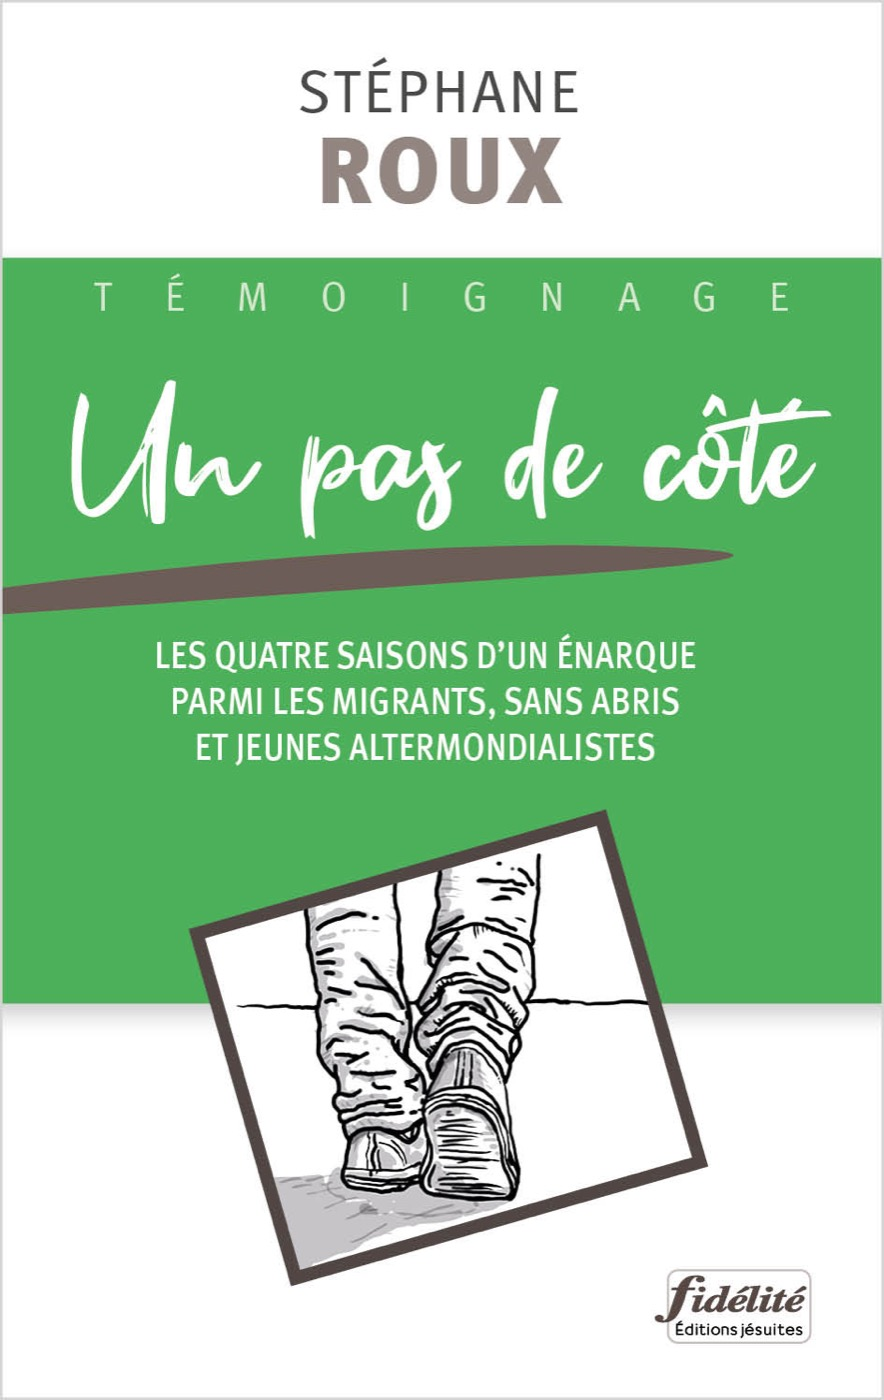
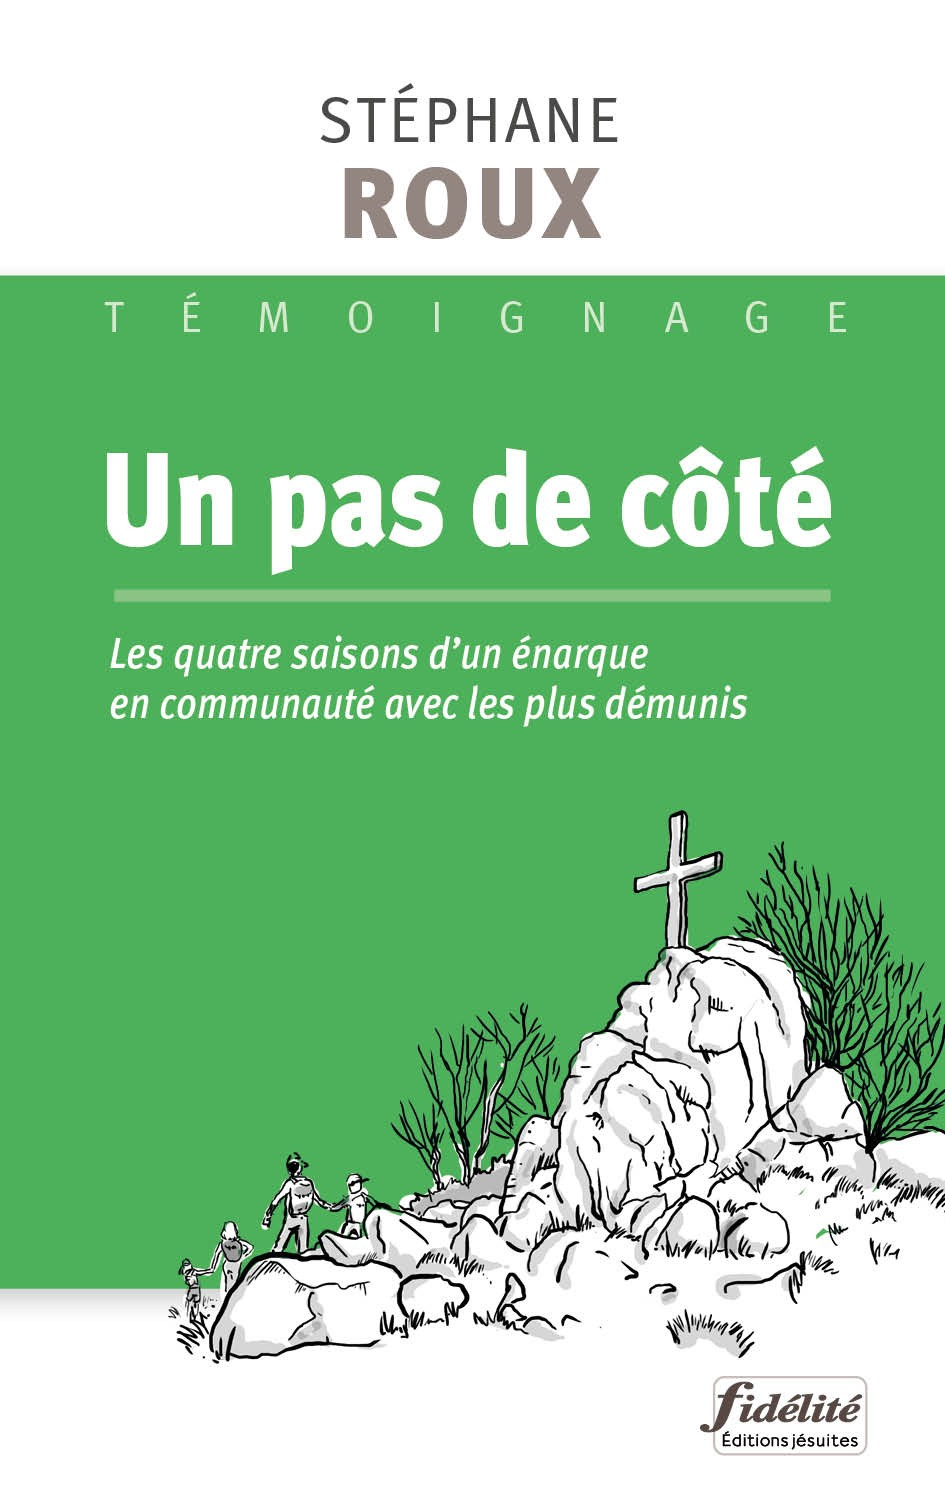
graphisme : séries d'illustrations par personnage (SESSD, coccinelle, spécialités médicales…), couverture finale Un pas de côté

diff --git a/lib/graphisme.ts b/lib/graphisme.ts
@@ -33,7 +33,7 @@ export const general: GraphismeImage[] = [
   { id: "c_musulmane", caption: "Musulmane, disciple du Christ", width: 404, height: 640, link: "https://www.calameo.com/read/006730137c506b192a13a" },
   { id: "c_politique", caption: "Politique et écologie", width: 453, height: 640 },
   { id: "c_portraits", caption: "15 portraits philosophiques du Christ", width: 990, height: 1400 },
-  { id: "c_pascote", caption: "Un pas de côté", width: 884, height: 1400, link: "https://www.calameo.com/read/0067301378c221a790ced" },
+  { id: "c_pascote", caption: "Un pas de côté", width: 945, height: 1496, link: "https://www.calameo.com/read/0067301378c221a790ced" },
   { id: "c_choisir", caption: "Choisissez bien votre psy", width: 391, height: 640 },
   { id: "c_ecologie", caption: "Guide pratique de l’écologie intégrale", width: 404, height: 640, link: "https://www.calameo.com/read/006730137e0cda3411a3b" },
   { id: "c_kobik", caption: "Ignace de Loyola, le pèlerinage intérieur", width: 421, height: 640, link: "https://www.calameo.com/read/00673013785915b69059c" },
@@ -109,25 +109,71 @@ export const illustration: GraphismeImage[] = [
   { id: "i_church", caption: "", width: 619, height: 640 },
 ];
 
-export const illustrationSeries: GraphismeImage[] = [
-  { id: "ser_1", caption: "", width: 680, height: 728 },
-  { id: "ser_2", caption: "", width: 682, height: 810 },
-  { id: "ser_3", caption: "", width: 707, height: 832 },
-];
 
-export const mascotteIcons: GraphismeImage[] = [
-  { id: "ser_16", caption: "", width: 613, height: 387 },
-  { id: "ser_17", caption: "", width: 761, height: 365 },
-  { id: "ser_18", caption: "", width: 650, height: 411 },
-  { id: "ser_19", caption: "", width: 682, height: 432 },
-  { id: "ser_4_attention", caption: "", width: 288, height: 288 },
-  { id: "ser_4_indication", caption: "", width: 288, height: 288 },
-  { id: "ser_4_interdit", caption: "", width: 288, height: 288 },
-  { id: "ser_4_synthese", caption: "", width: 360, height: 360 },
-  { id: "ser_6_attention", caption: "", width: 288, height: 288 },
-  { id: "ser_6_indication", caption: "", width: 288, height: 288 },
-  { id: "ser_6_interdit", caption: "", width: 288, height: 288 },
-  { id: "ser_6_synthese", caption: "", width: 288, height: 288 },
+export type IllustrationSeries = { title: string; items: GraphismeImage[] };
+
+export const illustrationSeries: IllustrationSeries[] = [
+  {
+    title: "Pictogrammes de collection",
+    items: [
+      { id: "ser_16", caption: "", width: 613, height: 387 },
+      { id: "ser_17", caption: "", width: 761, height: 365 },
+      { id: "ser_18", caption: "", width: 650, height: 411 },
+      { id: "ser_19", caption: "", width: 682, height: 432 },
+    ],
+  },
+  {
+    title: "Spécialités médicales",
+    items: [
+      { id: "ser_bebe_cardio", caption: "", width: 1013, height: 1600 },
+      { id: "ser_bebe_gyneco", caption: "", width: 1328, height: 1600 },
+      { id: "ser_bebe_neuro", caption: "", width: 1467, height: 1600 },
+      { id: "ser_bebe_psy", caption: "", width: 1524, height: 1600 },
+    ],
+  },
+  {
+    title: "L’étudiant en médecine",
+    items: [
+      { id: "ser_2", caption: "", width: 682, height: 810 },
+      { id: "ser_etu_mm", caption: "", width: 1600, height: 1519 },
+      { id: "ser_etu_od", caption: "", width: 1553, height: 1600 },
+      { id: "ser_etu_noms", caption: "", width: 1032, height: 1060 },
+      { id: "ser_etu_amie", caption: "", width: 1181, height: 997 },
+    ],
+  },
+  {
+    title: "Pictogrammes de rubriques",
+    items: [
+      { id: "ser_rond_epidemio", caption: "", width: 1600, height: 1294 },
+      { id: "ser_rond_micro", caption: "", width: 1548, height: 1502 },
+      { id: "ser_rond_mots", caption: "", width: 1600, height: 1406 },
+    ],
+  },
+  {
+    title: "SESSD APF — enfants en situation de handicap",
+    items: [
+      { id: "ser_3", caption: "", width: 707, height: 832 },
+      { id: "ser_sessd_fauteuil", caption: "", width: 768, height: 750 },
+      { id: "ser_sessd_bequille", caption: "", width: 1175, height: 1600 },
+      { id: "ser_sessd_velo", caption: "", width: 1064, height: 1168 },
+      { id: "ser_sessd_sport", caption: "", width: 924, height: 838 },
+      { id: "ser_sessd_ecole", caption: "", width: 724, height: 821 },
+      { id: "ser_sessd_deambulateur", caption: "", width: 642, height: 656 },
+      { id: "ser_sessd_lunettes", caption: "", width: 454, height: 630 },
+      { id: "ser_sessd_therapeute", caption: "", width: 609, height: 698 },
+      { id: "ser_sessd_garcon", caption: "", width: 1056, height: 1600 },
+    ],
+  },
+  {
+    title: "La coccinelle",
+    items: [
+      { id: "ser_cox_02", caption: "", width: 1395, height: 1600 },
+      { id: "ser_cox_03", caption: "", width: 1395, height: 1600 },
+      { id: "ser_cox_04", caption: "", width: 1432, height: 1600 },
+      { id: "ser_cox_dos", caption: "", width: 1393, height: 1600 },
+      { id: "ser_cox_loupe", caption: "", width: 1574, height: 1600 },
+    ],
+  },
 ];
 
 export const musiciens: GraphismeImage[] = [

diff --git a/app/graphisme/page.tsx b/app/graphisme/page.tsx
@@ -12,7 +12,6 @@ import {
   illustrationScientifique,
   illustrationSeries,
   illustrationsDiverses,
-  mascotteIcons,
   mockups,
   musiciens,
   plv,
@@ -231,7 +230,12 @@ export default function GraphismePage() {
           <p className="theme-text-muted max-w-2xl leading-relaxed mb-4 -mt-2">
             Déclinaisons d’illustrations numériques pour des projets éditoriaux.
           </p>
-          <Grid items={[...mascotteIcons, ...illustrationSeries]} shape="square" contain />
+          {illustrationSeries.map((series) => (
+            <div key={series.title} className="mb-8">
+              <h4 className="theme-text mb-3 text-sm font-semibold">{series.title}</h4>
+              <Grid items={series.items} shape="square" contain />
+            </div>
+          ))}
 
           <SubTitle>Musiciens</SubTitle>
           <p className="theme-text-muted max-w-2xl leading-relaxed mb-4 -mt-2">
